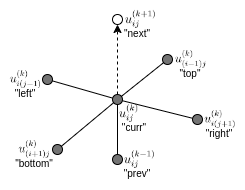
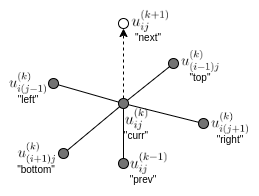
fixing slides

diff --git a/docs/12-refletor-codigo/index.html b/docs/12-refletor-codigo/index.html
@@ -10,21 +10,6 @@
 </head>
 <body>
   <h2>Exemplo 3: refletor parabólico</h2>
-  <div class="codecols">
-<pre><code class="language-c">#define WAVELENGTH 0.05 // comprimento de onda
-#define SIGMA      0.04 // largura do pacote em x
-#define PACKET_X   0.18 // centro inicial do pacote
-#define BEAM_WIDTH 0.4  // semilargura do feixe em y
-
-// espelho: x = VERTEX_X - (y - CENTER_Y)^2 / (4 F)
-// aberto para a esquerda, foco em (0.62, 0.5)
-#define CENTER_Y             0.5
-#define MIRROR_VERTEX_X      0.92
-#define MIRROR_FOCAL         0.3
-#define MIRROR_HALF_APERTURE 0.3
-#define MIRROR_THICKNESS     0.015
-
-#define PI 3.14159265358979323846</code></pre>
 <pre><code class="language-c">// pacote plano: gaussiana * cos(k (x - x0))
 double initial(double x, double y) {
   double k = 2 * PI / WAVELENGTH;
@@ -49,7 +34,6 @@ double mirror(double x, double y) {
       fabs(x - xCurve) / sqrt(1 + slope*slope);
   return distance &lt; MIRROR_THICKNESS / 2;
 }</code></pre>
-  </div>
   <p class="small">Chamada: <code>de_solveWave(initial, mirror, C, printFrame, H, dt, T_END)</code>, com $c=1$, $h=1/200$, $\Delta t=0{,}9\,h/(c\sqrt2)$ e $t\in[0,1{,}2]$.</p>
 </body>
 </html>

diff --git a/docs/10-fenda-codigo/index.html b/docs/10-fenda-codigo/index.html
@@ -10,24 +10,15 @@
 </head>
 <body>
   <h2>Exemplo 2: fenda dupla</h2>
-  <div class="codecols">
-<pre><code class="language-c">#define SOURCE_X 0.2
-#define SOURCE_Y 0.5
-#define SIGMA    0.03
-
-#define WALL_X          0.5
-#define WALL_THICKNESS  0.02
-#define SLIT_WIDTH      0.05
-// distância entre os centros das fendas
-#define SLIT_SEPARATION 0.3
-
+<pre><code class="language-c">
 double initial(double x, double y) {
   double dx = x - SOURCE_X;
   double dy = y - SOURCE_Y;
   return exp(-(dx*dx + dy*dy)
              / (2*SIGMA*SIGMA));
-}</code></pre>
-<pre><code class="language-c">// uma fenda de largura SLIT_WIDTH
+}
+
+// uma fenda de largura SLIT_WIDTH
 // centrada em `center`
 static int inSlit(double y, double center) {
   return fabs(y - center) &lt; SLIT_WIDTH / 2;
@@ -44,7 +35,6 @@ double wall(double x, double y) {
       || inSlit(y, 0.5 + SLIT_SEPARATION/2);
   return !open;
 }</code></pre>
-  </div>
   <p class="small">Chamada: <code>de_solveWave(initial, wall, C, printFrame, H, dt, T_END)</code>, com $c=1$, $h=1/150$, $\Delta t=0{,}9\,h/(c\sqrt2)$ e $t\in[0,1]$.</p>
 </body>
 </html>

diff --git a/docs/15-outras-formas/index.html b/docs/15-outras-formas/index.html
@@ -10,12 +10,10 @@
 <body>
   <div class="text-container left">
     <h2>Outras formas da EDP</h2>
-    <p><b>Amortecimento</b> ("esponja"), com $\gamma(x,y)\ge 0$: a onda perde energia onde $\gamma\gt 0$.</p>
+    <p><b>Amortecimento</b> ("esponja"): A função $\gamma(x,y)\ge 0$ descreve o amortecimento, a onda perde energia onde $\gamma\gt 0$.</p>
     \[ u_{tt}+\gamma\,u_t=c^2(u_{xx}+u_{yy}) \]
     <p>Recorrência explícita, com $a=\gamma\Delta t/2$ e a mesma CFL:</p>
     \[ u^{n+1}_{i,j}=\frac{2u^n_{i,j}-(1-a)\,u^{n-1}_{i,j}+r^2L^n_{i,j}}{1+a} \]
-    <p><b>Velocidade inicial</b> $u_t(x,y,0)=v_0(x,y)$ muda o primeiro passo:</p>
-    \[ u^1_{i,j}=u^0_{i,j}+\Delta t\,v_0+\tfrac{\Delta t^2}{2}\big(c^2L^0_{i,j}/h^2-\gamma v_0\big) \]
     <p><b>Contorno de Neumann</b> (parede rígida para pressão): $\partial u/\partial n=0$, reflexão sem inversão de sinal.</p>
     <p><b>Contorno absorvente</b> de 1ª ordem: $u_t+c\,\partial u/\partial n=0$, para ondas que saem na normal.</p>
   </div>

diff --git a/docs/16-conclusao/index.html b/docs/16-conclusao/index.html
@@ -10,10 +10,7 @@
 <body>
   <div class="text-container left">
     <h2>Conclusão</h2>
-    <ul>
-      <li>No caso simples (Dirichlet, $c$ constante, malha uniforme, esquema explícito), a equação da onda é fácil de resolver: poucas dezenas de linhas de C, ordem 2 e estabilidade com $c\Delta t/h\le 1/\sqrt2$.</li>
-      <li>Isso já basta para reflexão, difração, interferência e focalização.</li>
-      <li>No caso geral, a coisa complica: contornos abertos ou absorventes (esponja, PML), Neumann e obstáculos curvos (degraus na malha), $c(x,y)$ variável, estabilidade só heurística com $\gamma(x,y)$ e o custo em 3D.</li>
+      <p>A equação da onda no caso simples, usando condição de contorno de Dirichlet, com $c$ constante e malha uniforme é fácil de resolver e já basta para estudar reflexão, difração, interferência e focalização.</p>
     </ul>
   </div>
 </body>

diff --git a/docs/14-refletor-maximo/index.html b/docs/14-refletor-maximo/index.html
@@ -13,7 +13,7 @@
     <img src="maximo.png" alt="Máximo de |u| ao longo do tempo em cada nó da malha, com o foco do refletor destacado">
     <div class="text-container left" style="max-width:28ch">
       <p>Máximo de $|u|$ ao longo de $t\in[0,1{,}2]$. Cinza: nós fixos (bordas e espelho).</p>
-      <p>O foco (<span style="color:#0aa">+</span>) concentra a energia: $|u|\approx 2{,}14$ ali, contra $0{,}49$ com uma parede reta (ganho de $4{,}4$).</p>
+      <p>O foco (<span style="color:#0aa">+</span>) concentra a energia.</p>
     </div>
   </div>
 </body>

diff --git a/docs/13-refletor-gif/index.html b/docs/13-refletor-gif/index.html
@@ -12,8 +12,7 @@
   <div class="cols">
     <img src="wave_05.gif" alt="Pacote plano refletido por um espelho parabólico e convergindo no foco">
     <div class="text-container left" style="max-width:28ch">
-      <p>O pacote plano bate no espelho e a onda refletida converge no foco $(0{,}62;\,0{,}5)$.</p>
-      <p>Todos os raios percorrem o mesmo caminho até o foco: chegam juntos, em $t\approx 1{,}06$ (previsto: $1{,}04$).</p>
+      <p>O pacote plano bate no espelho e a onda refletida converge no foco.</p>
     </div>
   </div>
 </body>

diff --git a/docs/11-fenda-gif/index.html b/docs/11-fenda-gif/index.html
@@ -13,7 +13,7 @@
     <img src="wave_04.gif" alt="Onda atravessando uma parede com duas fendas e formando um padrão de interferência">
     <div class="text-container left" style="max-width:28ch">
       <p>Gota em $(0{,}2;\,0{,}5)$ e parede em $x=0{,}5$ com duas fendas.</p>
-      <p>As ondas circulares que saem das fendas se somam: faixas de reforço e de cancelamento (interferência).</p>
+      <p>As ondas circulares que saem das fendas se somam.</p>
     </div>
   </div>
 </body>
